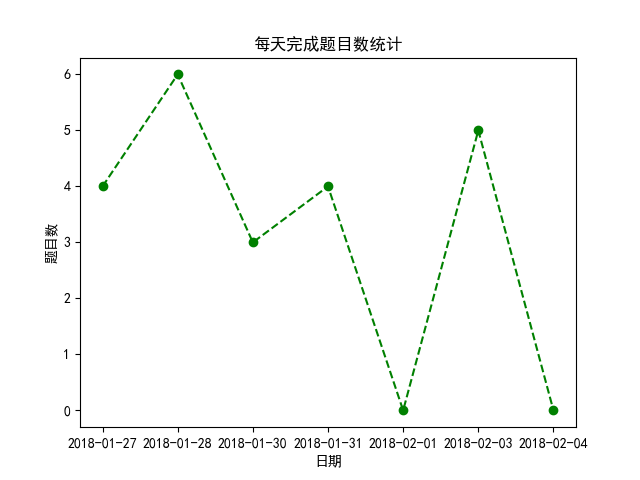
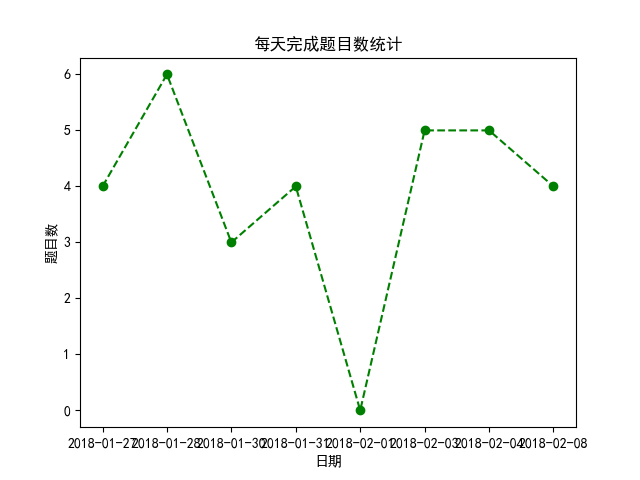
好久没刷了23333

diff --git a/leetcode-algorithms/673. Number of Longest Increasing Subsequence/ans.py b/leetcode-algorithms/673. Number of Longest Increasing Subsequence/ans.py
@@ -1,0 +1,36 @@
+### 2018-02-08 solved ###
+class Solution:
+    def findNumberOfLIS(self, nums):
+        """
+        :type nums: List[int]
+        :rtype: int
+        """
+        if not nums:
+            return 0
+
+        # dp
+
+        dp = [[1, 1] for i in range(len(nums))]
+
+
+        longest = 1
+
+
+        for i,num in range(1, len(nums) ):
+            for j in range(0, i):
+                if nums > nums[j]:
+                    if dp[j][0]+1  == dp[i][0]:
+                        dp[i][1] += dp[j][1]
+                    elif dp[j][0]+1  > dp[i][0]:
+                        dp[i][0] = dp[j][0] + 1
+                        dp[i][1] = dp[j][1]
+
+            if dp[i][0] > longest:
+                longest = dp[i][0]
+
+
+        return sum([item[1] for item in dp if item[0] == longest])
+
+
+s = Solution()
+s.findNumberOfLIS([7322,32214,68344,-48225,-54846,3883,1874,-72026,47149,-230,57024,-64648,-81568,3636,56485,-46012,-17547,-21405,85381,-46806,-29435,63424,90592,-22085,-75646,24150,75591,-27050,-6239,-79662,-7858,1590,53308,32411,-55914,-74221,13392,-83899,-66953,-62937,-77431,-53063,-29903,-1646,-91782,-866,-97139,14400,70951,-18064,48225,-83571,7049,36864,-53935,1311,-97133,92828,-38488,-19970,10384,-50532,-49942,-54032,24169,-6184,41152,24547,64302,71521,12525,69432,-84677,22385,92703,8169,44237,-2423,56075,42232,-70236,86463,48864,-51986,57283,7316,-97509,-40191,91377,74484,6338,-34801,94404,-65268,47534,87375,64974,-21744,63656,72492,-80387,-65383,-69456,-4309,-54180,55743,-57665,-87706,-25637,-90105,36835,-65691,13084,35359,-91970,3306,-26721,-10612,-54107,-98463,23630,20039,-81161,-25271,25087,94537,-85265,-81635,78561,-35622,53933,-13929,87593,65672,16799,-93377,67184,65126,82937,93170,21105,22569,10200,77953,56796,-73963,29597,-77944,70054,51269,91688,22696,35816,72018,-11181,32971,86819,55471,-91341,69553,-40170,-79086,59075,-3585,-42446,-72807,-10969,-9065,65014,-48930,55903,-71664,84134,90693,70366,72766,72732,15470,71610,60388,98419,69966,38080,-49647,18661,-6128,-28769,-40432,-58781,-30997,66492,97245,-61848,-53577,-19114,-68431,392,24222,-3549,64169,24022,-43139,16110,35869,-42026,57863,-89421,69503,-31634,85058,3307,16760,97667,22728,76169,91199,-707,-13788,79029,41526,585,93256,66830,-91401,21673,16251,-24211,93348,72116,89855,97263,-21248,87218,4841,32594,41450,63241,-74821,-50635,45704,63013,40206,22742,-51592,-88665,40167,86797,-5416,-77958,33263,45370,23090,-85641,23339,12,-39655,92760,58516,-9869,-68989,65277,-56564,-41764,-27602,-16569,89090,-9325,-10994,-26997,-74709,-4512,97361,36260,97926,-75778,34197,-55093,-83479,64698,18207,-83325,-64026,40558,3558,-98914,36896,-9421,78474,-78788,97889,15690,-12867,33416,-35470,43484,98615,61408,-45083,6258,69984,55191,-8349,94091,34436,81124,-450,-33891,52140,98871,-28810,58606,53998,11460,77125,95187,-30373,-42566,48037,90515,25118,-41092,74688,98027,26558,59888,-91724,-93575,-49760,-27327,33890,78527,-70405,-89484,-21706,6518,-24917,-18377,51307,-5325,18834,-33760,-28060,-24191,-76699,-64842,-17157,75067,-87371,-60758,-54532,-45112,57502,29092,30043,-24906,-45519,-78908,76811,48300,-82932,42565,-59254,-10405,4166,5127,-2508,49118,-68613,24902,60871,75227,15214,80607,-86653,33539,-36305,-59518,-18615,91066,57936,-59395,-69,16005,-40726,-39529,18308,-79503,-96099,-40850,23511,70644,-7941,75004,49375,35846,59578,-29648,-74401,-56603,58993,28796,23886,31556,-81613,-99609,-39163,26971,90403,-83353,71515,-17270,-38742,39597,30349,71164,8586,95601,-88292,89175,-67276,-95996,7265,88383,96429,-53737,25141,96214,-87625,-72424,-37252,83464,56084,-9955,85988,-912,-49958,-88635,14419,16309,-2511,58372,-19640,-30344,18957,91617,-74288,-85797,-47935,-31956,-5767,-78632,-715,61958,1871,84912,-90379,40098,60030,31192,-22181,-20344,58392,83989,-62056,-38870,-59955,81094,-20817,-57643,-18030,46341,-37118,-69867,34877,99567,-36963,-66486,-12481,38696,54171,-42937,-65407,10246,18924,43021,31625,10423,2255,69962,20099,21322,22614,51070,-39653,67584,-59533,-30525,70257,-81461,21479,-76813,74944,-60367,-80816,-70793,-22261,-96886,62817,-72566,69096,97617,-22148,-4184,-58780,85409,-659,-80341,28561,97467,89002,-10807,69083,72047,-92615,84547,26452,-74518,46327,-26067,97572,-25567,33538,35466,-21838,16015,-95672,84987,71423,16381,-35288,-17203,35901,73648,15712,29705,59058,34372,-76457,-78718,-7425,4317,38611,14592,76462,87769,98170,-35934,50145,-10087,-16303,-67635,22592,56556,-39137,43540,-75113,30010,-28427,-27757,7463,-65846,-82781,-98005,-39047,-14862,-18866,-7744,9973,36002,-69118,-64819,-91893,-9161,-52691,-44890,36876,-14232,-87725,-79529,20506,-39677,-78172,-83353,65299,27621,-13589,81003,81352,65639,-8400,-20021,-9319,-40100,-82222,-29158,59292,-17864,1854,-13590,33390,-35383,-24782,93814,-90724,9016,11854,-164,13134,79361,31295,13112,27236,-79322,-97486,-20824,72694,-9874,65089,-28485,76973,-57745,73983,95902,-39667,53160,69973,86152,89005,-2170,-85952,62979,96131,-49184,-56120,-88459,-28553,53302,-54338,-13486,79196,93788,76404,-41280,-2155,-72021,24594,-70401,-14041,-9977,82862,-58040,16007,93284,51634,-73979,-77195,-22027,12690,16959,4305,22567,-88409,48847,42142,91887,-49160,-30072,-19772,-92676,-14394,20072,-13762,-30353,-34420,-88750,-65933,99436,40798,1242,37909,-81276,-17400,-91546,29505,-33893,22132,-74036,92553,-73205,-26926,90122,-44319,-40211,-69215,1285,-31885,94853,17290,89703,-53203,48605,93865,13566,-27478,28070,-52833,26205,31051,50273,22421,7418,-47813,-88124,11168,8174,-79491,-80782,16974,87388,7603,-50470,27034,-90529,-54082,-10182,93831,-3597,47281,84648,93651,31052,-82388,-89422,98556,79112,-87779,-24555,83769,-55187,-51145,45858,-42933,-9607,-80186,16211,15556,16740,17840,-39144,-31768,-90890,7462,91674,49390,-56143,90558,-74940,25584,53095,7683,-81470,-7509,62455,-51130,-49065,-24107,71972,32053,-22995,-48748,74506,-53317,16313,48406,-81505,-74799,12252,-73925,90091,-35587,-91575,89703,-77127,-99067,-32427,59756,45066,-47285,-85506,-35746,-25387,44019,25245,-21218,51554,-62401,-51795,-39347,11997,-18229,-98050,64535,-27589,43483,95201,-59430,-69483,-72512,27951,-27359,94575,22190,55793,-46630,17907,-74168,-88746,-18664,9194,-4899,44035,-11052,-96660,89851,80034,-99907,97430,-65509,-40157,3401,26872,14534,80798,23031,-18725,508,8199,-53802,-52619,55002,8005,-90715,87817,48897,32213,-916,-62445,24669,-63206,12475,10696,9461,-62410,62983,17923,89688,-39388,-36915,-75741,-45004,73136,-85529,-91217,20017,60807,77978,56766,70255,-11342,-93163,-85694,29039,44869,-20412,-55199,-24280,-19064,-54695,31641,-24707,39187,-49633,-13806,-92890,-22245,-11961,40336,65258,52662,44383,80505,-41167,39528,-42634,-21868,-14871,-61997,-90225,53520,47194,36325,11962,12689,89839,-58283,13109,99499,-24059,81125,2952,89300,-36639,-95633,66163,15164,-40478,80236,64345,-75210,20330,-33223,28815,21684,-94824,-62011,-80282,47793,26003,-25502,16620,-41533,59278,-14046,-18145,59683,-4859,-56873,-47460,-34805,23522,26805,-41312,-97626,-68154,-2436,-48284,90092,70584,78894,39230,3718,-53433,45183,80069,-50052,61676,-59669,-19005,5472,-23084,40132,37655,-80795,-7762,-30664,-27451,-61039,53496,-89997,50720,27625,94362,-14246,-55055,959,-61234,35236,-47529,92682,95910,93892,-2820,84725,27300,-37260,51928,92619,49477,-82578,31404])

diff --git a/leetcode-algorithms/300. Longest Increasing Subsequence/ans.py b/leetcode-algorithms/300. Longest Increasing Subsequence/ans.py
@@ -1,0 +1,52 @@
+### 2018-02-08 solved ###
+class Solution:
+    def lengthOfLIS(self, nums):
+        """
+        :type nums: List[int]
+        :rtype: int
+        """
+        # DP1: O(n * n)
+        # if not nums:
+        #     return 0
+        # dp = [1 for i in range(len(nums))]
+        # ans  = 1
+        # for i, num in enumerate(nums):
+        #     for j in range(0,i):
+        #         if num > nums[j] and dp[j]+1 > dp[i]:
+        #             dp[i] = dp[j] + 1
+        #     if dp[i] > ans:
+        #         ans = dp[i]
+        # return ans
+
+        # DP2 : O(n* log(n)) ,以长度为单位进行dp，利用二分查找
+        if not nums:
+            return 0
+        dp = [0 for i in range(len(nums))]
+
+        maxlen = -1
+
+        # 二分查找到dp数组中第一个大于等于key 的index，dp数组本身是有序的
+        def binarySearch(key, l, r):  # [l, r]为闭区间
+            l, r = l, r
+            if dp[r] < key or r == -1:
+                return r + 1
+            while (l <= r):
+                mid = int((l + r) / 2)
+                if dp[mid] >= key:
+                    r = mid - 1
+                else:
+                    l = mid + 1
+            return l
+
+        for i, num in enumerate(nums):
+            # 找到num应该放入dp数组中的位置
+            index = binarySearch(num, 0, maxlen)
+            dp[index] = num
+            if index > maxlen:
+                maxlen = index
+
+        return maxlen + 1
+
+
+s = Solution()
+print(s.lengthOfLIS([2,2]))

diff --git a/leetcode-algorithms/698. Partition to K Equal Sum Subsets/ans.py b/leetcode-algorithms/698. Partition to K Equal Sum Subsets/ans.py
@@ -1,0 +1,34 @@
+### 2018-02-04 solved ###
+class Solution:
+    def canPartitionKSubsets(self, nums, k):
+        """
+        :type nums: List[int]
+        :type k: int
+        :rtype: bool
+        """
+        total = sum(nums)
+        if total % k != 0:
+            return False
+
+        target = int(total / k)
+
+        nums = sorted(nums, reverse=True)
+
+        def dfs(nums, k, cur):  # 能否在现有的基础上找到k个组合
+            if k == 0:
+                return True if not nums else False
+            if not nums:
+                return False
+
+            for i in range(len(nums)):
+                if nums[i] < target - cur:
+                    if dfs(nums[:i] + nums[i + 1:], k, cur + nums[i]):
+                        return True
+                elif nums[i] == target - cur:
+                    return dfs(nums[:i] + nums[i + 1:], k - 1, 0)
+                else:
+                    return False
+
+            return False
+
+        return dfs(nums, k, 0)

diff --git a/leetcode-algorithms/712. Minimum ASCII Delete Sum for Two Strings/ans.py b/leetcode-algorithms/712. Minimum ASCII Delete Sum for Two Strings/ans.py
@@ -1,0 +1,30 @@
+### 2018-02-04 solved ###
+class Solution:
+    def minimumDeleteSum(self, s1, s2):
+        """
+        :type s1: str
+        :type s2: str
+        :rtype: int
+        """
+
+        # DP : dp[i][j] : s1匹配到i,s2匹配到j，需要花费的最小代价
+        len1 = len(s1)
+        len2 = len(s2)
+
+        dp = [[0 for j in range(len2 + 1)] for i in range(len1 + 1)]
+
+        for i in range(1, len1 + 1):
+            dp[i][0] = dp[i - 1][0] + ord(s1[i - 1])
+        for j in range(1, len2 + 1):
+            dp[0][j] = dp[0][j - 1] + ord(s2[j - 1])
+
+        for i in range(1, len1 + 1):
+            for j in range(1, len2 + 1):
+                dp[i][j] = min(ord(s1[i - 1]) + dp[i - 1][j], ord(s2[j - 1]) + dp[i][j - 1])
+                if s1[i - 1] == s2[j - 1]:
+                    dp[i][j] = min(dp[i][j], dp[i - 1][j - 1])
+                    # dp[i][j] = dp[i-1][j-1]
+
+        return dp[len1][len2]
+
+

diff --git a/leetcode-algorithms/714. Best Time to Buy and Sell Stock with Transaction Fee/ans.py b/leetcode-algorithms/714. Best Time to Buy and Sell Stock with Transaction Fee/ans.py
@@ -1,0 +1,26 @@
+### 2018-02-04 solved ###
+class Solution:
+    def maxProfit(self, prices, fee):
+        """
+        :type prices: List[int]
+        :type fee: int
+        :rtype: int
+        """
+        # DP
+        # length = len(prices)
+        # sell = [0 for i in range(length + 1 )]   # 在i位置处于卖出状态获得的最大收益
+        # buy = [-60000 for i in range(length + 1)]  # 在i位置处于买入状态获得的最大收益
+        # profit = 0
+        # for i in range(1,length+1):
+        #     sell[i] = max(buy[i-1] + prices[i-1]-fee,sell[i-1])
+        #     buy[i] = max(sell[i-1] - prices[i-1],buy[i-1])
+        # return sell[length]
+
+        # DP 空间优化
+        sell = 0
+        buy = -prices[0]
+        for price in prices:
+            tmp = sell
+            sell = max(buy + price - fee, sell)
+            buy = max(tmp - price, buy)
+        return sell

diff --git a/leetcode-algorithms/467. Unique Substrings in Wraparound String/ans.py b/leetcode-algorithms/467. Unique Substrings in Wraparound String/ans.py
@@ -1,0 +1,23 @@
+### 2018-02-08 solved ###
+class Solution:
+    def findSubstringInWraproundString(self, p):
+        """
+        :type p: str
+        :rtype: int
+        """
+        ans = 0
+        dp = [0 for i in range(26)]  # 记录以26个小写字母结尾的字符串的最大长度，目的在保证子串的唯一性
+
+        pre = 1  # 记录前一个字符匹配到的长度
+        for i, ch in enumerate(p):
+            if i == 0:
+                dp[ord(ch) - ord('a')] = 1
+            elif ord(p[i - 1]) + 1 == ord(ch) or (p[i - 1] == 'z' and ch == 'a'):
+                pre = pre + 1
+                dp[ord(ch) - ord('a')] = max(pre, dp[ord(ch) - ord('a')])
+            else:
+                pre = 1
+                dp[ord(ch) - ord('a')] = max(pre, dp[ord(ch) - ord('a')])
+
+        return sum(dp)
+

diff --git a/leetcode-algorithms/091. Decode Ways/ans.py b/leetcode-algorithms/091. Decode Ways/ans.py
@@ -1,0 +1,32 @@
+### 2018-02-08 solved ###
+class Solution:
+    def numDecodings(self, s):
+        """
+        :type s: str
+        :rtype: int
+        """
+        if not s:
+            return 0
+
+        dp = [1 for i in range(len(s) + 1)]
+        if s[0] == '0':
+            return 0
+        else:
+            dp[1] = 1
+
+        for i in range(2,len(s)+1):
+            if s[i-1] == '0' and s[i-2] in '34567890':
+                return 0
+            elif s[i-1] == '0' and s[i-2] in '12':
+                dp[i] = dp[i-2]
+            elif s[i-2] == '1' and s[i-1] in '123456789' or s[i-2] == '2' and s[i-1] in '123456':
+                dp[i] = dp[i-1] + dp[i-2]
+            else:
+                dp[i] = dp[i-1]
+
+
+        return dp[len(s)]
+
+
+s = Solution()
+print( s.numDecodings('1') )

diff --git a/leetcode-algorithms/740. Delete and Earn/ans.py b/leetcode-algorithms/740. Delete and Earn/ans.py
@@ -1,0 +1,29 @@
+### 2018-02-04 solved ###
+class Solution:
+    def deleteAndEarn(self, nums):
+        """
+        :type nums: List[int]
+        :rtype: int
+        """
+        if not nums:
+            return 0
+
+        dic = {}
+        largest = 0
+        for num in nums:
+            if num >= largest:
+                largest = num
+            if num in dic:
+                dic[num]+= 1
+            else:
+                dic[num] = 1
+
+        dp = [0 for i in range(largest + 1)]
+        dp[1] = 1 * dic.get(1,0)
+        for i in range(2, largest+1 ):
+            dp[i] = max( dp[i - 2] + i * dic.get(i,0), dp[i - 1])
+
+        return dp[largest]
+
+s = Solution()
+print(s.deleteAndEarn([1,1,1,2,4,5,5,5,6]))

diff --git a/leetcode-algorithms/718. Maximum Length of Repeated Subarray/ans.py b/leetcode-algorithms/718. Maximum Length of Repeated Subarray/ans.py
@@ -1,0 +1,19 @@
+### 2018-02-04 solved ###
+class Solution:
+    def findLength(self, A, B):
+        """
+        :type A: List[int]
+        :type B: List[int]
+        :rtype: int
+        """
+        dp = [[0 for j in range(len(B) + 1)] for i in range(len(A) + 1)]
+
+        ans = 0
+        for i in range(1, len(A) + 1):
+            for j in range(1, len(B) + 1):
+                if A[i - 1] == B[j - 1]:
+                    dp[i][j] = dp[i - 1][j - 1] + 1
+                if dp[i][j] > ans:
+                    ans = dp[i][j]
+
+        return ans

diff --git a/README.md b/README.md
@@ -57,7 +57,24 @@
 |746|[Min Cost Climbing Stairs](https://leetcode.com/problems/min-cost-climbing-stairs/description/) |Easy|[Python](https://github.com/anbo225/leetcode/blob/master/leetcode-algorithms/746.%20Min%20Cost%20Climbing%20Stairs/ans.py)|
 
 ----------------
-### 2018-02-04 未刷leetcode
+### 2018-02-04 完成了:
 
+| ID | Title | Difficulty |  Python Solution |
+|:---:|:---:|:---:|:---:|
+|698|[Partition to K Equal Sum Subsets](https://leetcode.com/problems/partition-to-k-equal-sum-subsets/description/) |Medium|[Python](https://github.com/anbo225/leetcode/blob/master/leetcode-algorithms/698.%20Partition%20to%20K%20Equal%20Sum%20Subsets/ans.py)|
+|712|[Minimum ASCII Delete Sum for Two Strings](https://leetcode.com/problems/minimum-ascii-delete-sum-for-two-strings/description/) |Medium|[Python](https://github.com/anbo225/leetcode/blob/master/leetcode-algorithms/712.%20Minimum%20ASCII%20Delete%20Sum%20for%20Two%20Strings/ans.py)|
+|714|[Best Time to Buy and Sell Stock with Transaction Fee](https://leetcode.com/problems/best-time-to-buy-and-sell-stock-with-transaction-fee/description/) |Medium|[Python](https://github.com/anbo225/leetcode/blob/master/leetcode-algorithms/714.%20Best%20Time%20to%20Buy%20and%20Sell%20Stock%20with%20Transaction%20Fee/ans.py)|
+|718|[Maximum Length of Repeated Subarray](https://leetcode.com/problems/maximum-length-of-repeated-subarray/description/) |Medium|[Python](https://github.com/anbo225/leetcode/blob/master/leetcode-algorithms/718.%20Maximum%20Length%20of%20Repeated%20Subarray/ans.py)|
+|740|[Delete and Earn](https://leetcode.com/problems/delete-and-earn/description/) |Medium|[Python](https://github.com/anbo225/leetcode/blob/master/leetcode-algorithms/740.%20Delete%20and%20Earn/ans.py)|
+
+----------------
+### 2018-02-08 完成了:
+
+| ID | Title | Difficulty |  Python Solution |
+|:---:|:---:|:---:|:---:|
+|91|[Decode Ways](https://leetcode.com/problems/decode-ways/description/) |Medium|[Python](https://github.com/anbo225/leetcode/blob/master/leetcode-algorithms/091.%20Decode%20Ways/ans.py)|
+|300|[Longest Increasing Subsequence](https://leetcode.com/problems/longest-increasing-subsequence/description/) |Medium|[Python](https://github.com/anbo225/leetcode/blob/master/leetcode-algorithms/300.%20Longest%20Increasing%20Subsequence/ans.py)|
+|467|[Unique Substrings in Wraparound String](https://leetcode.com/problems/unique-substrings-in-wraparound-string/description/) |Medium|[Python](https://github.com/anbo225/leetcode/blob/master/leetcode-algorithms/467.%20Unique%20Substrings%20in%20Wraparound%20String/ans.py)|
+|673|[Number of Longest Increasing Subsequence](https://leetcode.com/problems/number-of-longest-increasing-subsequence/description/) |Medium|[Python](https://github.com/anbo225/leetcode/blob/master/leetcode-algorithms/673.%20Number%20of%20Longest%20Increasing%20Subsequence/ans.py)|
 
 ----------------
